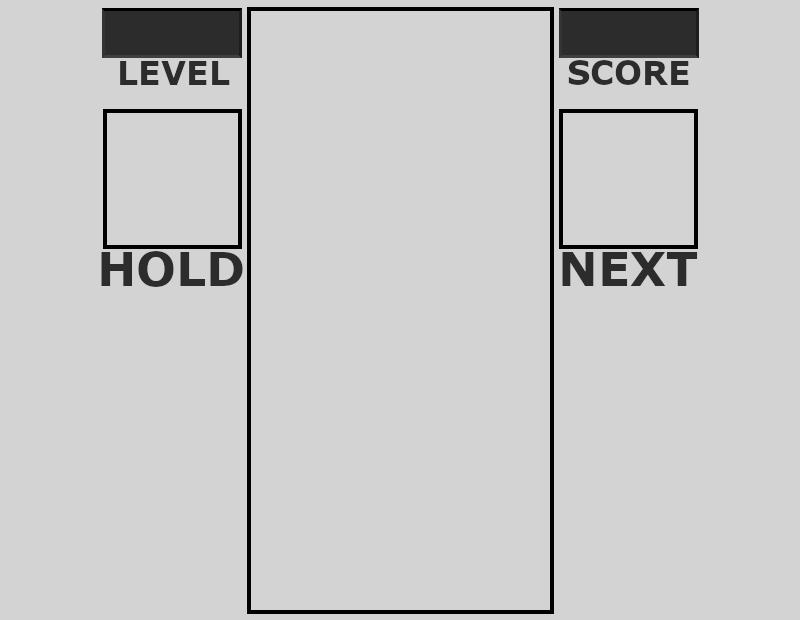
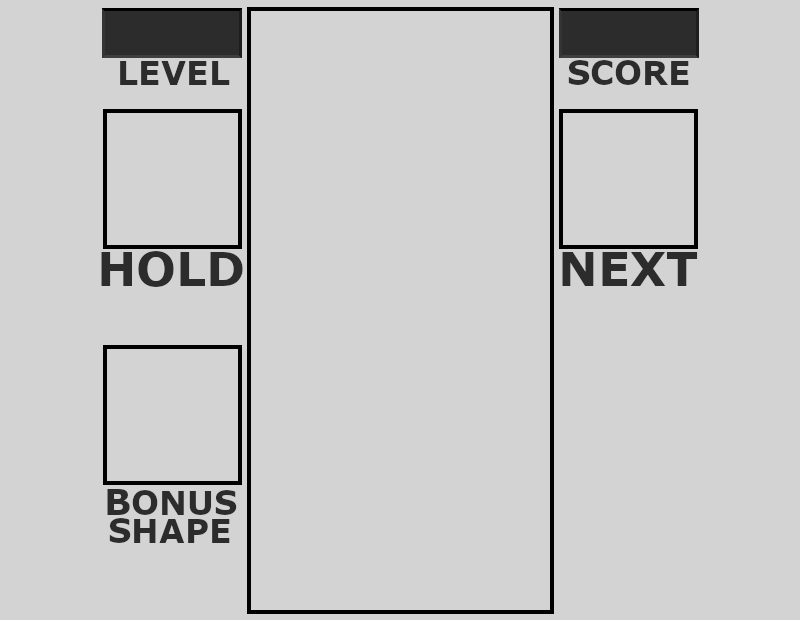
fixed two player mode

Changed region(s): [[0.125, 0.5516, 0.3125, 0.8887]]

diff --git a/Tetris - Code template/TetrisTemplate/TargetShape.cs b/Tetris - Code template/TetrisTemplate/TargetShape.cs
@@ -86,20 +86,20 @@ internal class TargetShape
         blockTexture = TetrisGame.ContentManager.Load<Texture2D>("block");
 
         //Setting the position.
-        position = new Vector2(50, 450);
+        ApplyResolutionSettings();
         
     }
     /// <summary>
     /// Draws the shape in the bottem left corner.
     /// </summary>
     /// <param name="spriteBatch"></param> Used for drawing textures in MonoGame
-    public void Draw(SpriteBatch spriteBatch)
+    public void Draw(SpriteBatch spriteBatch, Vector2 worldOffset)
     {
         for (int x = 0; x < 4; x++)
         {
             for (int y = 0; y < 4; y++)
             {
-                Vector2 drawPos = position + new Vector2(x * blockTexture.Width, y * blockTexture.Height);
+                Vector2 drawPos = position + new Vector2(x * blockTexture.Width, y * blockTexture.Height) + worldOffset;
                 spriteBatch.Draw(blockTexture, drawPos, grid.CellColors[(int)shape[currentShapeIndex][x, y]]);
 
             }
@@ -111,6 +111,10 @@ internal class TargetShape
     public void NewShape()
     {
         currentShapeIndex = GameWorld.Random.Next(amountOffDifferentShapes);
+    }
+    public void ApplyResolutionSettings()
+    {
+        position = new Vector2(TetrisGame.WorldSize.X / 2 - 287, 355);
     }
 }
 

diff --git a/Tetris - Code template/TetrisTemplate/GameWorld.cs b/Tetris - Code template/TetrisTemplate/GameWorld.cs
@@ -171,7 +171,7 @@ class GameWorld
         if(holdBlock != null)
             holdBlock.Draw(spriteBatch, worldOffset);
         if (targetShapeMode)
-            targetShape.Draw(spriteBatch);
+            targetShape.Draw(spriteBatch, worldOffset);
 
         spriteBatch.DrawString(font, level.ToString(), levelStringLocation - font.MeasureString(level.ToString()) / 2 + worldOffset, Color.Yellow);
         spriteBatch.DrawString(font, score.ToString(), scoreStringLocation - font.MeasureString(score.ToString()) / 2 + worldOffset, Color.Yellow);
@@ -199,6 +199,7 @@ class GameWorld
     public void ApplyResolutionSettings()
     {
         grid.ApplyResolutionSettings();
+        targetShape.ApplyResolutionSettings();
         levelStringLocation = new Vector2(TetrisGame.WorldSize.X / 2 - 228, 33);
         scoreStringLocation = new Vector2(TetrisGame.WorldSize.X / 2 + 228, 33);
     }
